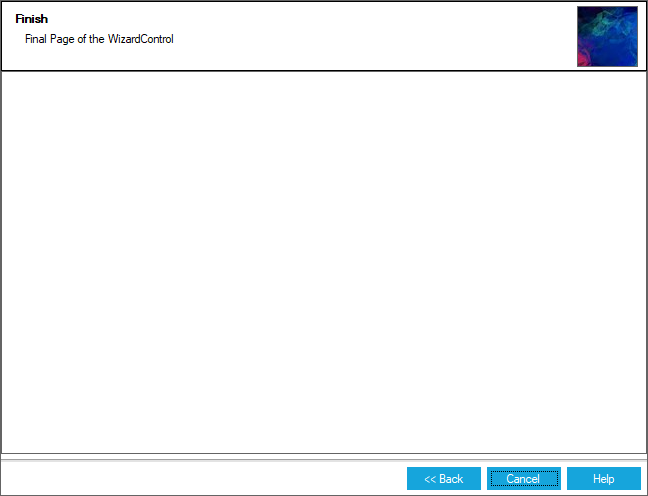
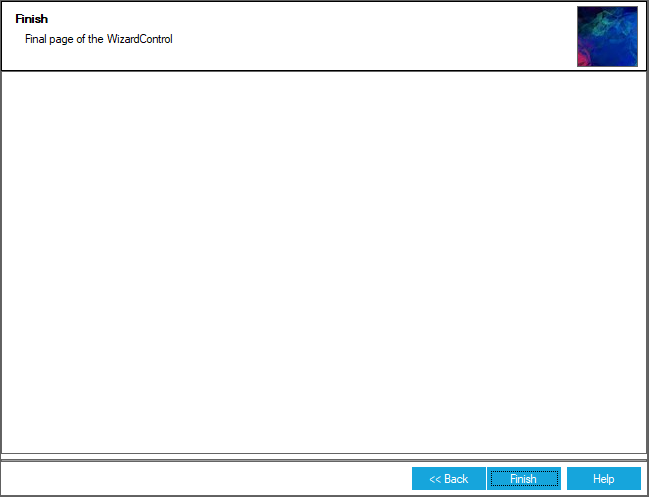
WF-43487- Improve Overview and GettingStarted of Wizard, CommandBar and ProgressBarAdv Changes Commited

diff --git a/WindowsForms/Wizard/Getting-Started.md b/WindowsForms/Wizard/Getting-Started.md
@@ -348,11 +348,14 @@ this.wizardControlPage1.Title = "Welcome";
 this.wizardControlPage1.Description = "First page of the WizardControl";
 this.wizardControlPage1.BackVisible = false;
 
-this.wizardControlPage1.Title = "Processing";
-this.wizardControlPage1.Description = "Second page of the WizardControl";
+this.wizardControlPage2.Title = "Processing";
+this.wizardControlPage2.Description = "Second page of the WizardControl";
 
-this.wizardControlPage1.Title = "Finished";
-this.wizardControlPage1.Description = "Final page of the WizardControl";
+this.wizardControlPage3.Title = "Finished";
+this.wizardControlPage3.Description = "Final page of the WizardControl";
+this.wizardControlPage3.NextVisible = false;
+this.wizardControlPage3.CancelVisible = false;
+this.wizardControlPage3.FinishVisible = true;
 
 this.pictureBox1.Image = ((System.Drawing.Image)(resources.GetObject("pictureBox1.Image")));
 this.wizardControl1.Banner = this.pictureBox1;
@@ -379,11 +382,14 @@ Me.wizardControlPage1.Title = "Welcome"
 Me.wizardControlPage1.Description = "First page of the WizardControl"
 Me.wizardControlPage1.BackVisible = False
 
-Me.wizardControlPage1.Title = "Processing"
-Me.wizardControlPage1.Description = "Second page of the WizardControl"
+Me.wizardControlPage2.Title = "Processing"
+Me.wizardControlPage2.Description = "Second page of the WizardControl"
 
-Me.wizardControlPage1.Title = "Finished"
-Me.wizardControlPage1.Description = "Final page of the WizardControl"
+Me.wizardControlPage3.Title = "Finished"
+Me.wizardControlPage3.Description = "Final page of the WizardControl"
+Me.wizardControlPage3.NextVisible = False
+Me.wizardControlPage3.CancelVisible = False
+Me.wizardControlPage3.FinishVisible = True
 
 Me.pictureBox1.Image = (CType(resources.GetObject("pictureBox1.Image"), System.Drawing.Image))
 Me.wizardControl1.Banner = Me.pictureBox1

diff --git a/WindowsForms/XPTaskpane/Overview.md b/WindowsForms/XPTaskpane/Overview.md
@@ -9,9 +9,7 @@ documentation: ug
 
 # Overview
 
-The XPTaskPane is a container control that can host a number of XPTaskPage, which the user can browse using a dropdown menu and the arrow buttons in task pane's header portion. This resembles the task pane in Office XP 2002.
-
-The XPTaskPane control was inspired by the Office XP TaskPane feature. The control internally uses a CardLayout to show one page at a time. The header panel allows the user to select one page at a time. The control comes with complete design-time support.
+[XPTaskPane](https://help.syncfusion.com/cr/cref_files/windowsforms/tools/Syncfusion.Tools.Windows~Syncfusion.Windows.Forms.Tools.XPTaskPane.html) is an MS Office XP TaskPane inspired container control helps to host a number of [XPTaskPage](https://help.syncfusion.com/cr/cref_files/windowsforms/tools/Syncfusion.Tools.Windows~Syncfusion.Windows.Forms.Tools.XPTaskPage.html), which the user can browse using a dropdown menu and the arrow buttons in task pane's header portion. 
 
 ![](Overview_images/XPtaskPane_img1.png)
 
@@ -31,7 +29,7 @@ This section covers the features of XPTaskPane control.
 
 * **Page Sequencing** - Provides options to reorder the pages through 'Bring to front' and 'Send to back' verbs or by using XPTaskPage Collection Editor.
 
-* **VisualStyle** - Support rich set of built-in themes like Office, Metro and much more.
+* **Visual Style** - Support rich set of built-in themes like Office, Metro and much more.
 
 
 

diff --git a/WindowsForms/XPToolbar/Overview.md b/WindowsForms/XPToolbar/Overview.md
@@ -9,7 +9,7 @@ documentation: ug
 
 # XPToolbar
 
-XPToolbar control is a container for a group of commands or control, which have relative functions. Supports built-in BarItems similar to the functionality of Menu, ComboBox, TextBox, Label and much more.
+[XPToolbar](https://help.syncfusion.com/cr/cref_files/windowsforms/tools/Syncfusion.Tools.Windows~Syncfusion.Windows.Forms.Tools.XPMenus.XPToolBar.html) is an [MainFrameBarManager](https://help.syncfusion.com/cr/cref_files/windowsforms/tools/Syncfusion.Tools.Windows~Syncfusion.Windows.Forms.Tools.XPMenus.MainFrameBarManager.html) inspired toolbar-like control that supports all required BarItems as loaded in it and it can be used as an individual control.
 
 ![](Overview_images/Overview_img2.png)
 
@@ -17,7 +17,7 @@ XPToolbar control is a container for a group of commands or control, which have 
 
 **BarItem Types** - Provides rich set of built-in controls to be added as a BarItem of the XPToolbar
 
-**VisualStyle** - Provides options to customize the look and feel of XPToolBar using various built-in styles.
+**Visual Style** - Provides options to customize the look and feel of XPToolBar using various built-in styles.
 
 **Image settings** - Provides option to set large Icons and also to set BackgroundImage
 

diff --git a/WindowsForms/Gauge/Radial-Gauge.md b/WindowsForms/Gauge/Radial-Gauge.md
@@ -27,11 +27,11 @@ documentation: ug
 
 * **Labels** - Provides support to customize the appearance of gauge values with user-specified colors and alignment.
 
-* **VisualStyle** - Supports rich set of VisualStyle to modify look and feel of the RadialGauge
+* **Visual Style** - Supports rich set of Visual Style to modify look and feel of the RadialGauge
 
 * **Customization Options** - Supports color and visibility customization of all elements and its appearance can also be customized in any form.
 
-* **DataBinding** - Support provided to update value using DataBinding concept. 
+* **Data Binding** - Support provided to update value using DataBinding concept. 
 
 
 # Getting started

diff --git a/WindowsForms/NavigationDrawer/Overview.md b/WindowsForms/NavigationDrawer/Overview.md
@@ -21,5 +21,5 @@ NavigationDrawer is a sliding panel menu that comes out from the edge of the wi
 
 * **Toggle Drawer** : This support helps to toggle between Sliding Panel visibility.
 
-* **AnimationDuration** : Specifies the Timespan by which the DrawerContent opens up to the view. AnimationDuration is applied only when ToggleDrawer function is used.
+* **Animation Duration** : Specifies the Timespan by which the DrawerContent opens up to the view. Animation Duration is applied only when ToggleDrawer function is used.
 

diff --git a/WindowsForms/NavigationView/Overview.md b/WindowsForms/NavigationView/Overview.md
@@ -17,7 +17,7 @@ documentation: ug
 
 * **History Settings** -  Provides options to drop-down the History of the previously visited locations and provides options to show/hide the History Button.
 
-* **VisualStyle** - Provides options to customize the look and feel using VisualStyle such as Metro, Office2007 and Vista.
+* **Visual Style** - Provides options to customize the look and feel using Visual Style such as Metro, Office2007 and Vista.
 
 * **RightToLeft** - Provides options to set RightToLeft alignment.
 

diff --git a/WindowsForms/MonthCalendarAdv/Overview.md b/WindowsForms/MonthCalendarAdv/Overview.md
@@ -25,6 +25,6 @@ documentation: ug
 
 * **Customization** - Provides options to customize font and color of Dates, Day Names, Week number and  calendar Header
 
-* **VisualStyle** - Provides rich set of VisualStyle to customize the look and feel of MonthCalendarAdv.
+* **Visual Style** - Provides rich set of Visual Style to customize the look and feel of MonthCalendarAdv.
 
 * **Accessibility** - Touch, keyboard, and mouse support to make applications available to a wide variety of users.

diff --git a/WindowsForms/Gauge/Linear-Gauge.md b/WindowsForms/Gauge/Linear-Gauge.md
@@ -21,7 +21,7 @@ documentation: ug
 
 * **Customization Options** - Supports color and visibility customization of all elements and its appearance can also be customized in any form.
 
-* **VisualStyle** - Supports rich set of VisualStyle to modify look and feel of the LinearGauge
+* **Visual Style** - Supports rich set of Visual Style to modify look and feel of the LinearGauge
 
 * **DataBinding** - Support provided to update value using DataBinding concept. 
 

diff --git a/WindowsForms/SpellCheckerAdv/Overview.md b/WindowsForms/SpellCheckerAdv/Overview.md
@@ -22,6 +22,6 @@ SpellCheckerAdv control offers Microsoft Office style spell checking capabilitie
 
 * **Ignores Special expressions** - Provides options to Ignore Email, URL, numbers, Mixed case words and much more.
 
-* **VisualStyle** - Provide rich set of VisualStyle to customize the look and feel of SpellCheckerAdv.
+* **Visual Style** - Provide rich set of Visual Style to customize the look and feel of SpellCheckerAdv.
  
 

diff --git a/WindowsForms/RadialSlider/Overview.md b/WindowsForms/RadialSlider/Overview.md
@@ -21,5 +21,5 @@ The RadialSlider is an advanced control that is capable of calculating the sequ
 
 * **Value Settings** - Provides options to set minimum and maximum range as well as slider division values.
 
-* **VisualStyle** - Provides rich set of style to customize the look and feel of RadialSlider.
+* **Visual Style** - Provides rich set of style to customize the look and feel of RadialSlider.
 

diff --git a/WindowsForms/RangeSlider/Overview.md b/WindowsForms/RangeSlider/Overview.md
@@ -21,4 +21,4 @@ RangeSlider is a flexible UI component that allows value-range selection. It let
 
 * **Value Settings** - Provides options to set minimum and maximum value of RangeSlider.
 
-* **VisualStyle** - Provides rich set of VisualStyle to customize the look and feel of RangeSlider.
+* **Visual Style** - Provides rich set of Visual Style to customize the look and feel of RangeSlider.

diff --git a/WindowsForms/CommandBar/Overview.md b/WindowsForms/CommandBar/Overview.md
@@ -24,7 +24,7 @@ documentation: ug
 
 * **Gripper** - Provides options to show and hide Gripper.
 
-* **VisualStyle** - Provides rich set of VisualStyle to customize the look and feel of command bar
+* **Visual Style** - Provides rich set of Visual Style to customize the look and feel of CommandBar
 
 * **Serialization** - Provides options to save and load the state of the CommandBar.
 
